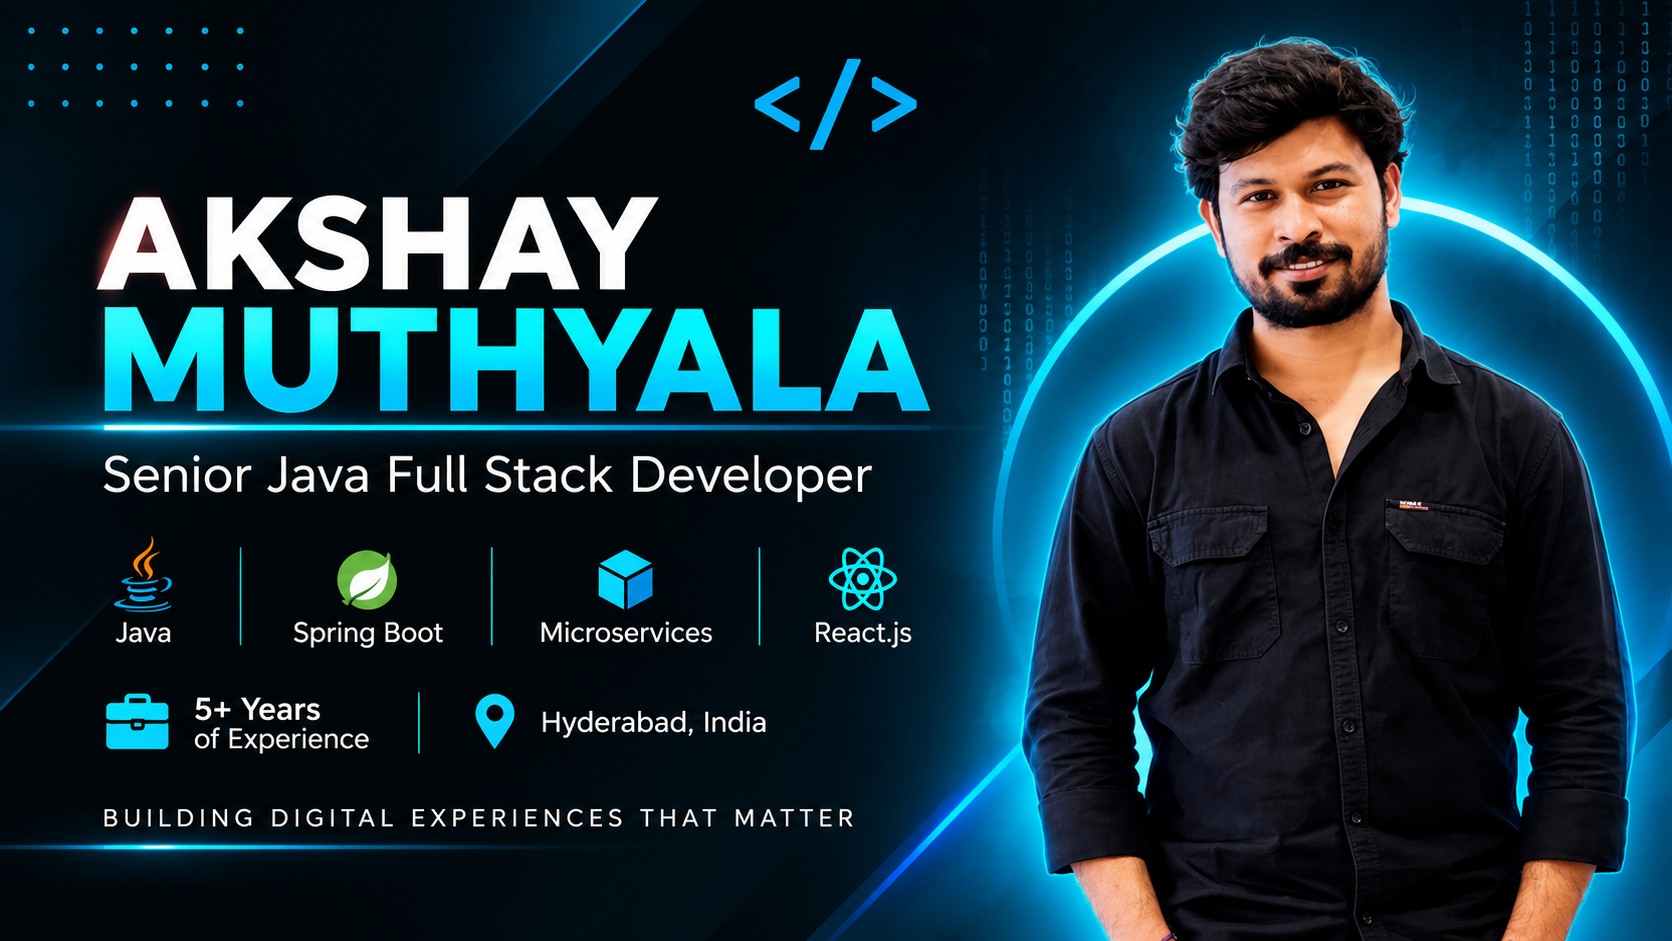
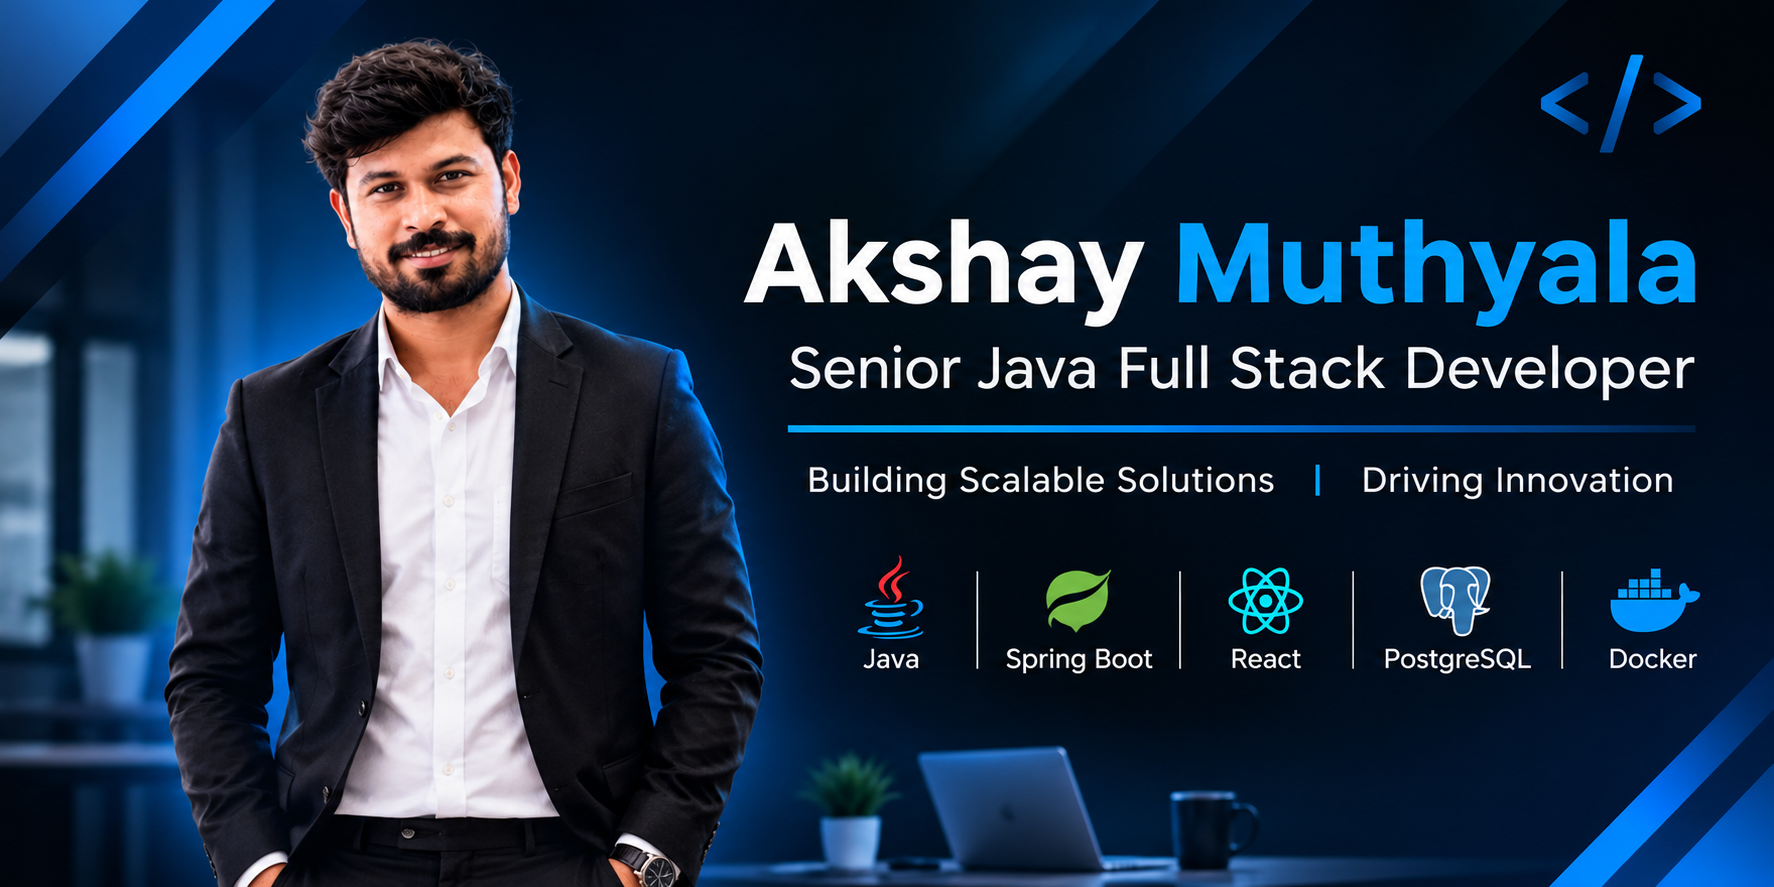
Initial portfolio commit

diff --git a/index.html b/index.html
@@ -42,11 +42,11 @@
     />
     <meta
       property="og:url"
-      content="https://YOUR-DOMAIN.com/"
+      content="https://akshay-portfolio-liard-theta.vercel.app/"
     />
     <meta
       property="og:image"
-      content="https://YOUR-DOMAIN.com/og-image.png"
+      content="https://akshay-portfolio-liard-theta.vercel.app/og-image.png"
     />
     <meta
       property="og:image:alt"
@@ -69,7 +69,7 @@
     />
     <meta
       name="twitter:image"
-      content="https://YOUR-DOMAIN.com/og-image.png"
+      content="https://akshay-portfolio-liard-theta.vercel.app/og-image.png"
     />
     <meta
       name="twitter:image:alt"
